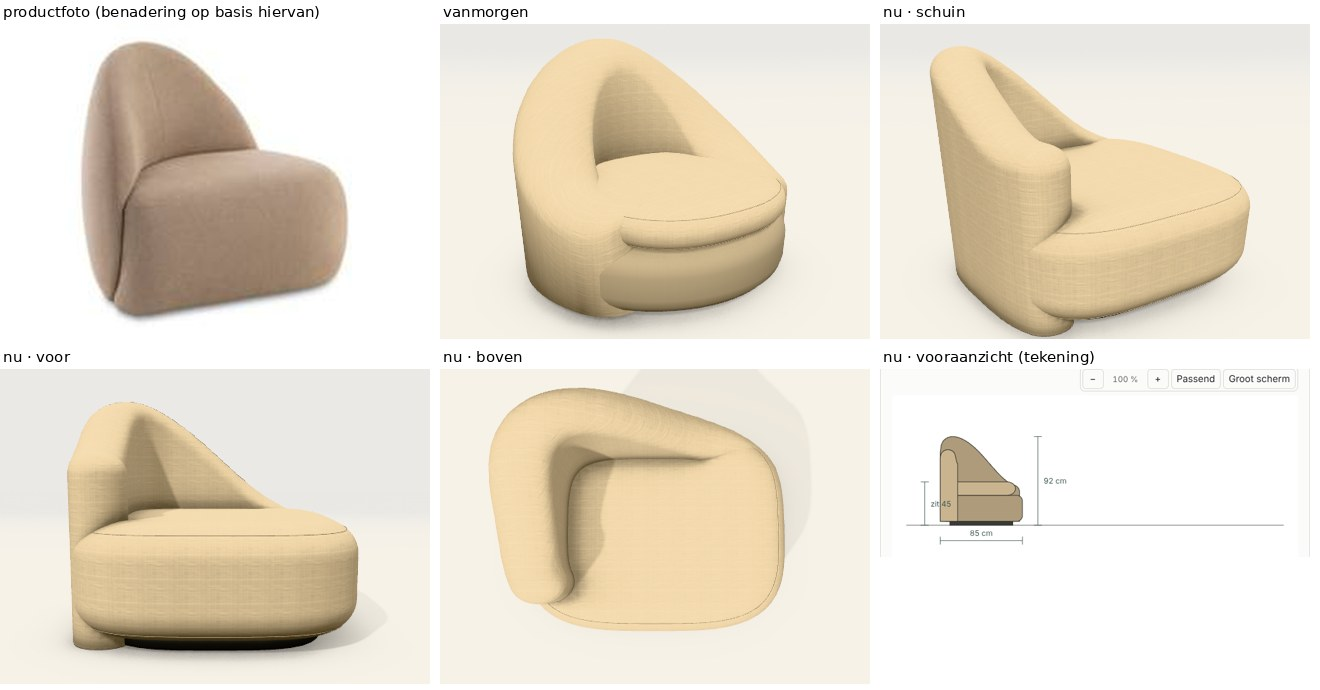
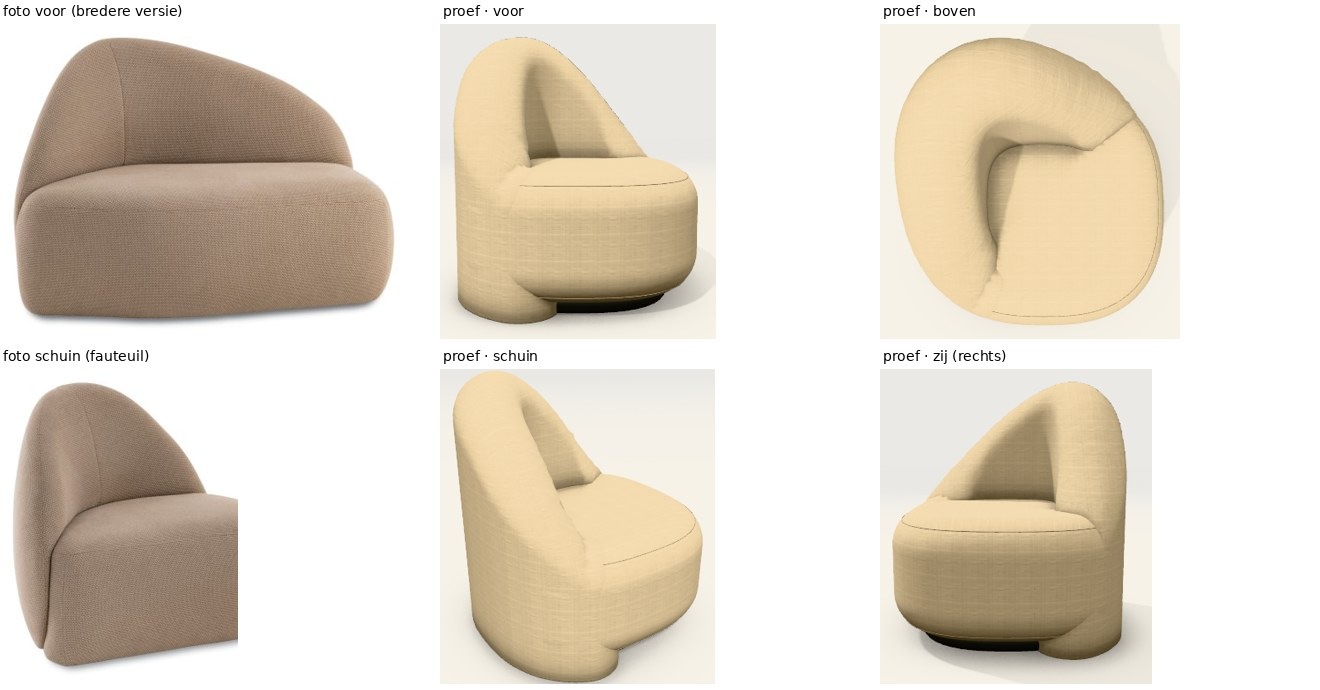
Pebble opnieuw naar de foto's van de productpagina
- Rug: één dikke, bolle schaal (24 cm) achter de zitting die links om de
  zijkant draait; het hoogst op de rug links van het midden, rechts schuin
  in de zitting, links in een boog naar voren tot op zithoogte; bol
  verloop van de bovenrand zoals de rand van een blad.
- Zitting: één zacht blok met grote afrondingen (eigen exponent 2,6 voor
  de kuipvorm Organisch, de andere kuipvormen ongewijzigd).
- Ook boven- en vooraanzicht van Pebble volgen; prijs en offertetekst niet.
- Test, beeldvergelijking (alleen pebble-schuin), uitleg, skill en
  overdracht bijgewerkt. Online demo en doorstuurbestanden wachten op het
  akkoord van Jonas.

Claude-Session: https://claude.ai/code/session_01PczewFp9M8BS44vqTSpk6u

diff --git a/packages/core/src/kuip.ts b/packages/core/src/kuip.ts
@@ -32,6 +32,8 @@ export interface KuipParameters {
    * linkerkant; rechts stopt de wand 50° na het midden achteraan.
    */
   scheef: boolean;
+  /** Eigen exponent van het grondvlak (2 = ellips, hoger = hoekiger); leeg = volgens `plan`. */
+  exponent?: number;
 }
 
 /** Parameters uit de `teken`-velden van de gekozen kuipvorm; null voor de hoekige fauteuil (rechte rug en armen). */
@@ -48,6 +50,7 @@ export function kuipParameters(teken: Record<string, unknown> | undefined): Kuip
     organisch: teken.organisch === true,
     vlak: teken.vlak === true,
     scheef: teken.scheef === true,
+    ...(typeof teken.exponent === 'number' ? { exponent: teken.exponent } : {}),
   };
 }
 
@@ -83,7 +86,7 @@ export interface KuipOpbouw {
  * `kussenDik` = dikte zitkussen (0 = vaste zitting).
  */
 export function kuipOpbouw(B: number, D: number, h: { P: number; zithoogte: number; rugH: number; kussenDik: number }, k: KuipParameters, losseRug: boolean): KuipOpbouw {
-  const n = exponent(k.plan);
+  const n = k.exponent ?? exponent(k.plan);
   const w = Math.min(k.dikte, B / 3, D / 3);
   const cx = B / 2, cy = D / 2;
   const plan = superellips(cx, cy, B / 2, D / 2, n, 0, 360, 72).slice(0, -1);
@@ -95,9 +98,10 @@ export function kuipOpbouw(B: number, D: number, h: { P: number; zithoogte: numb
   const rond1 = (x: number) => Math.round(x * 10) / 10;
   let pad: Punt[], hoogtes: number[];
   if (k.scheef) {
-    // Van rechtsachter (−30°) over het midden achteraan (−90°) naar linksvoor (−90° − boog); het hoogst linksachter (−140°).
-    // Het stijgende stuk rechts is lang genoeg om niet te steil te worden (een te steile bovenkant gaf vlekjes in de 3D).
-    const tRechts = -30, tLinks = -90 - k.boog, tTop = -140;
+    // Volgens de productfoto's (pebble-01-6, -13, -18): van rechtsachter (−38°, de schaal komt daar op de zitting uit,
+    // ±vier vijfde van de breedte) over de rug naar links, het hoogst op de rug links van het midden (−128°, ±een kwart van de breedte), en langs de linkerzijde naar
+    // voren (−90° − boog) waar ze rond tot op de vloer zakt, net achter de voorkant van de zitting.
+    const tRechts = -38, tLinks = -90 - k.boog, tTop = -128;
     // Eerst fijn bemonsterd, dan op gelijke afstanden langs de wand: bij een afgerond grondvlak liggen punten op gelijke
     // hoeken ongelijk verdeeld, en dan golfde de bovenkant (de hoogte volgt de afstand langs de wand, niet de hoek).
     const F = 600, fijn = superellips(cx, cy, B / 2 - w / 2, D / 2 - w / 2, n, tRechts, tLinks, F);
@@ -112,14 +116,15 @@ export function kuipOpbouw(B: number, D: number, h: { P: number; zithoogte: numb
       return [rond1(fijn[j]![0] + f * (fijn[j + 1]![0] - fijn[j]![0])), rond1(fijn[j]![1] + f * (fijn[j + 1]![1] - fijn[j]![1]))] as Punt;
     });
     const uTop = afstand[Math.round(((tRechts - tTop) / (tRechts - tLinks)) * F)]! / totaal;
-    // Links vooraan nog ±half de hoogte boven de zitting (de schaal staat daar tot op de vloer). Rechts verdwijnt de schaal
-    // in de zitting: haar bovenkant eindigt 3 cm onder de zitting, niet erop (twee vlakken op dezelfde hoogte flikkeren).
-    const links = voor + (rug - voor) * 0.5, rechts = zitBoven - 3;
+    // Vooraan links ongeveer op zithoogte (daaronder loopt de ronde kop tot op de vloer). Rechts verdwijnt de schaal in de
+    // zitting: haar bovenkant eindigt 3 cm onder de zitting, niet erop (twee vlakken op dezelfde hoogte flikkeren).
+    const links = zitBoven + 1, rechts = zitBoven - 3;
+    // Bol verloop, zoals de rand van een blad: bij de top vlak, naar de uiteinden toe steeds steiler.
     hoogtes = pad.map((_, i) => {
       const u = i / (pad.length - 1);
       return u <= uTop
-        ? rond1(rechts + (rug - rechts) * (0.5 - 0.5 * Math.cos((Math.PI * u) / uTop)))
-        : rond1(rug - (rug - links) * (0.5 - 0.5 * Math.cos((Math.PI * (u - uTop)) / (1 - uTop))));
+        ? rond1(rechts + (rug - rechts) * Math.sin((Math.PI / 2) * (u / uTop)))
+        : rond1(links + (rug - links) * Math.cos((Math.PI / 2) * ((u - uTop) / (1 - uTop))));
     });
   } else {
     pad = superellips(cx, cy, B / 2 - w / 2, D / 2 - w / 2, n, -90 - k.boog, -90 + k.boog, stappen * 2);

diff --git a/packages/core/test/kuip.test.ts b/packages/core/test/kuip.test.ts
@@ -51,19 +51,26 @@ describe('scheve schaal (kuipvorm organisch, Pebble)', () => {
   const h = { P: 4, zithoogte: 44, rugH: 92, kussenDik: 12 };
   const opb = kuipOpbouw(85, 85, h, kuipParameters(teken('organisch'))!, false);
   const { pad, hoogtes } = opb.wand;
-  it('rechts achteraan begint de schaal onder de zitting, links blijft ze hoog tot vooraan', () => {
+  it("volgens de productfoto's: rechts in de zitting, het hoogst op de rug links van het midden, links in een boog naar voren", () => {
     expect(hoogtes[0]).toBeLessThan(h.zithoogte); // rechts: verdwijnt in de zitting
     expect(pad[0]![0]).toBeGreaterThan(60); // rechts (grote x)
     expect(pad[0]![1]).toBeLessThan(40); // achter het midden
     const laatste = pad[pad.length - 1]!;
-    expect(laatste[0]).toBeLessThan(25); // links
+    expect(laatste[0]).toBeLessThan(26); // links
     expect(laatste[1]).toBeGreaterThan(55); // vooraan
-    expect(hoogtes[hoogtes.length - 1]).toBeGreaterThan(h.zithoogte + 15);
-    // Het hoogst linksachter.
+    // Vooraan links rond zithoogte; de ronde kop loopt daaronder tot op de vloer.
+    expect(hoogtes[hoogtes.length - 1]).toBeGreaterThanOrEqual(h.zithoogte);
+    expect(hoogtes[hoogtes.length - 1]).toBeLessThan(h.zithoogte + 6);
+    // Het hoogst op de rug, links van het midden (±een kwart van de breedte).
     const top = pad[hoogtes.indexOf(Math.max(...hoogtes))]!;
     expect(top[0]).toBeLessThan(42.5);
-    expect(top[1]).toBeLessThan(42.5);
+    expect(top[0]).toBeGreaterThan(10);
+    expect(top[1]).toBeLessThan(20);
     expect(Math.max(...hoogtes)).toBe(92);
+    // Bol verloop: halverwege tussen de top en de uiteinden nog ruim boven het midden van de hoogte.
+    const iTop = hoogtes.indexOf(Math.max(...hoogtes));
+    expect(hoogtes[Math.round(iTop / 2)]!).toBeGreaterThan((92 + h.zithoogte) / 2);
+    expect(hoogtes[Math.round((iTop + hoogtes.length - 1) / 2)]!).toBeGreaterThan((92 + h.zithoogte) / 2);
     for (const [x, y] of [...opb.plan, ...pad]) { expect(x).toBeGreaterThanOrEqual(-0.01); expect(x).toBeLessThanOrEqual(85.01); expect(y).toBeGreaterThanOrEqual(-0.01); expect(y).toBeLessThanOrEqual(85.01); }
   });
   it('de andere kuipvormen blijven symmetrisch', () => {

diff --git a/packages/core/voorbeelden/vrij-ontwerp.ts b/packages/core/voorbeelden/vrij-ontwerp.ts
@@ -208,7 +208,7 @@ export const zetelOpties: OptieGroep[] = [
       { code: 'afgerond', label: 'Afgerond met armen', uitleg: 'Afgeronde rug die naar armhoogte zakt en vlak doorloopt', teken: { vorm: 'afgerond', plan: 'afgerond', dikte: 13, boog: 130, voorBoven: 17, armVanaf: 0.6 } },
       { code: 'omhullend', label: 'Omhullend', uitleg: 'Wand loopt ver rond, armen laag vooraan', teken: { vorm: 'omhullend', plan: 'rond', dikte: 17, boog: 140, voorBoven: 9, armVanaf: 1 } },
       { code: 'trommel', label: 'Trommel', uitleg: 'Ronde trommel, rondom even hoog, met losse rugkussens', teken: { vorm: 'trommel', plan: 'rond', dikte: 14, boog: 138, voorBoven: 22, armVanaf: 1, vlak: true } },
-      { code: 'organisch', label: 'Organisch', uitleg: 'Zachte kiezel als zitting; de schaal is aan één kant hoog en loopt aan de andere kant schuin in de zitting weg', teken: { vorm: 'organisch', plan: 'afgerond', dikte: 16, boog: 118, voorBoven: 1, armVanaf: 1, organisch: true, scheef: true } },
+      { code: 'organisch', label: 'Organisch', uitleg: 'Zachte kiezel als zitting; de schaal is aan één kant hoog en loopt aan de andere kant schuin in de zitting weg', teken: { vorm: 'organisch', plan: 'afgerond', exponent: 2.6, dikte: 24, boog: 150, voorBoven: 1, armVanaf: 1, organisch: true, scheef: true } },
       { code: 'schelp', label: 'Schelp op frame', uitleg: 'Dunne, gebogen rugschaal boven de zitting, op het frame', teken: { vorm: 'schelp', plan: 'afgerond', dikte: 6, boog: 98, voorBoven: 20, armVanaf: 1, zwevend: true } },
       { code: 'hoekig', label: 'Hoekig', uitleg: 'Rechte rug en armen', teken: { vorm: 'hoekig' } },
     ],

diff --git a/docs/overdracht.md b/docs/overdracht.md
@@ -22,7 +22,7 @@
 | **Overstap naar WebGPU (4/11)** | Na de proeven (verslag `docs/proeven/3d-motor-proeven-0411.md`) alles samengevoegd: weefselkaarten, glas met transmission, scherpere omgeving en de lichtsfeer *Fotostudio* (HDRI, CC0), fotomodus op WebGPU met ontruiser. Daarna de hele 3D (zeteldemo en bouwdemo) op `WebGPURenderer`:<br>• WebGPU waar de browser het heeft (de M5 in de toonzaal: Safari 27.2, adapter Apple, shader-f16), anders automatisch WebGL2 met hetzelfde beeld;<br>• schaduw in hoeken (kwaliteit *Mooi*) opnieuw gebouwd met de nabewerking van WebGPU (TSL: GTAO + ontruisen);<br>• fotomodus: WebGPU-path tracer met ontruiser, anders de oude op een tijdelijke WebGL-renderer;<br>• beelden van het canvas via `viewer.beeld()` (offerte); de slagschaduw is zachter dan vroeger (VSM van WebGPU).<br>• **Getest:** alleen de WebGL2-weg (in de cloud is er geen WebGPU): vijf zetels, woning en raam tegenover de vorige versie, *Snel* en *Mooi*, fotomodus en offerte. **WebGPU zelf nog te testen op de M5.** Pagina ±6,4 MB (HDRI 2,2 MB en WebGPU-onderdelen). |
 | **Schaduw volgt de vorm (5/11)** | Melding van Jonas: "De schaduw volgt niet de vorm van het object." Twee oorzaken gevonden (ook al vóór WebGPU):<br>• de contactschaduw onder de zetel was een rechthoek per onderdeel (ronde poef: vierkante schaduw; Doha: rechthoekige vlek voorbij de ronde uiteinden). Nu de echte grondvorm per onderdeel;<br>• de verdekte voet was altijd vierkant en stak onder ronde fauteuils (Pebble) uit: een harde, zwarte plaat. Nu dezelfde vorm als het meubel, 10 cm naar binnen.<br>• Prijs, offerte, boven- en vooraanzicht ongewijzigd. Getest op de WebGL2-weg (Doha, Kotor, Pebble, Stockholm). **Nog na te kijken op de M5:** de zonneschaduw via WebGPU (VSM); ziet die er nog verkeerd uit, dan een schermafbeelding met model en toestel. |
 | **Gratis hulpmiddelen en beeldvergelijking (5/11)** | Advies over gratis hulpmiddelen in `docs/3d-technieken.md` (Material Maker, DeepBump, Real-ESRGAN, HDRI's; in three.js: SSS, TRAA, SSGI, SSR, Inspector).<br>• **Getest, niet opgenomen:** fijne contactschaduw (SSS) en TRAA bij *Mooi*: geen zichtbare winst, wel extra rekenwerk (beeld `docs/afbeeldingen/proef-sss-traa.jpg`, verslag in `docs/proeven/3d-motor-proeven-0411.md`).<br>• **Nieuw:** `npm run beelden`: vaste reeks van 10 beelden (zetels, poef, woning, raam) tegenover de referentie in `beeldtest/referentie/`, verschil in het rood (`beeldtest/LEESMIJ.md`). Proef: de fout van vandaag (vierkante voet) tijdelijk teruggezet en gemeld.<br>• Texturen van vloer, wand en hout met een vaste toevalsreeks: hetzelfde parket bij elke keer laden.<br>• Volgende stap volgens het advies: stoffen maken met Material Maker en DeepBump; SSGI als proef op de M5. |
-| **Pebble afgewerkt (5/11)** | Melding: "de vormen lopen door elkaar", met de productfoto. De zitting is nu één zachte kiezel in de stof (geen donkere onderbouw met los kussen); de schaal staat scheef zoals op de foto (links hoog en tot vooraan op de vloer, rechts schuin in de zitting), met ronde uiteinden en een zachte vouw tegen de zitting; de zitting is een afgeronde rechthoek, niet rond. Lichte vlekjes op de oplopende schaal opgelost in de motor voor zachte vormen. Verandert: 3D en boven- en vooraanzicht van Pebble (ook de tekening in de offerte); prijs en offertetekst niet; andere kuipfauteuils niet. Beeldvergelijking: alleen `pebble-schuin` veranderde, de 9 andere bleven 0,00 %. Benadering uit één foto: na te kijken met een tweede foto of bij de klant. Uitleg en beeld in `docs/zachte-vormen.md`. 249 tests. |
+| **Pebble opnieuw naar de productfoto's (5/11)** | Meldingen: "de vormen lopen door elkaar", later "totaal onherkenbaar". Eerst op één kleine foto gebouwd (te veel gegist), daarna op de zes foto's van de productpagina: de zitting is één zacht blok met grote afrondingen; de rug een dikke, bolle schaal (24 cm) achter de zitting die links om de zijkant draait, het hoogst op de rug links van het midden, rechts schuin in de zitting, links in een boog naar voren tot op zithoogte. Verandert: 3D en boven- en vooraanzicht van Pebble (ook de tekening in de offerte); prijs en offertetekst niet; andere kuipfauteuils niet. **Wacht op het akkoord van Jonas** voor de online demo en de doorstuurbestanden. Na te vragen bij de klant: maten van de fauteuil, linkse/rechtse versie. Uitleg en beeld in `docs/zachte-vormen.md`. 249 tests. |
 | **3D-kennisbank en advies ramen en deuren (4/11)** | `docs/3d-technieken.md` (in Obsidian: *3D-technieken - kennisbank*):<br>• alle 3D-technieken op een rij (blokken, eigen doorsnede, zachte vormen, doorlopende opbouw, boog, echt 3D-bestand, weergave, snelheid): wat ze doen, waarvoor wel en niet, rekentijd, waar in de code;<br>• de lessen (eigen vorm per type, eerst de opbouw, grote foto's van de productpagina, vergelijkingsbeeld, benaderingen markeren, 3D-keuze kan de prijs raken);<br>• een werkwijze voor een nieuw model of product;<br>• **advies ramen en deuren** (vraag: "is deze techniek voor 3D bruikbaar voor ramen en deuren?", nog niet gebouwd): de zachte vormen niet; wel een eigen doorsnede per profielsysteem (verstek, doorsnedetekening, rondboog; DXF van de leverancier), echte 3D-bestanden voor krukken en trekbeugels; de weergave is al gedeeld. |
 | **Doorlopende zetel: Doha en Montego (4/11)** | Melding: "Montego en Doha zien er in de 3D identiek uit" en "groot verschil qua opbouw" met de foto; daarna "we maken progressie maar is nog niet af". Oorzaak: beide waren losse elementen naast elkaar; op de foto's (de grote van de productpagina's) is elk één doorlopende zetel.<br>• **Nieuw in de vormgeving van de zetel:** *Opbouw in 3D* (*Per element* of *Doorlopend (één zetel)*) en *Boog bij doorlopend* (0–60 cm, de uiteinden naar voren). Motor: `core/src/doorlopend.ts`.<br>• **Doorlopend:** met losse zitkussens twee ronde banden (zitting rondom, onderbouw 3 cm terug, diepe naad), met een vaste zitting één ronde vorm; één rug langs de achterkant. Bij een afgerond uiteinde volgt de rug *Rug bij de ronde kant*: *rond* = korte omloop als armleuning op volle hoogte (tot ±32 % van de diepte), *recht* = de rug stopt met een ronde kop ±40 % van het eindelement ver en de zitting loopt verder. Een dieper element loopt vloeiend over in de rest (1,6 × het diepteverschil aan elke kant, 25–70 cm). Onderbouw en rug zijn één zachte vorm, ook bij *Blokken*.<br>• **Doha:** loungedeel links 145 cm diep, zitting 22 cm, armleuningen aan beide kanten, oranje en lichtgrijs sierkussen. **Montego:** vaste zitting, rug aan beide kanten alleen op het rechte deel, boog van 30 cm. Allemaal benaderingen uit de foto's.<br>• **Schaduw:** buren met een vrije omtrek (zitkussen) of gebogen wand tellen nu met hun echte vorm (vroeger als doos rond hun kader: grijze vlekken waar niets staat); het zitkussen krijgt schaduw van de rug.<br>• **Rekenen:** in de achtergrond (eerst de gewone vorm), ±0,3–0,7 s; tabellen in het grondvlak voor lange omtrekken en wanden (2 à 3 × sneller).<br>• **Blijft per element:** prijs, offerte, boven- en vooraanzicht (de boog alleen in 3D). Let op: de offerte toont dus in 3D één zetel en in de tekeningen de losse elementen. Alleen een rechte rij: bij een hoeksofa doet alleen de langste rechte rij mee (niet getest).<br>• Beeld: `docs/afbeeldingen/doorlopende-zetel.jpg`; uitleg in `docs/zachte-vormen.md`. |
 | **Strakke arm met eigen vorm (4/11)** | Na de zachte vormen: de strakke arm (16 van de 21 modellen met armen) is een eigen doorsnede (`strakProfiel` in `ruimtelijk.ts`), in alle weergaven en in het vooraanzicht.<br>• **Vorm:** zacht afgeronde, licht bolle bovenkant, licht bolle zijkanten, een voorpaneel met afgeronde rand dat in het midden bol staat; hoe zacht volgt de zachtheid van het model. Met een hoes loopt de arm tot op de vloer (Husk).<br>• **Naad of bies rond het voorpaneel** van elke arm met een eigen vorm (ook Wallace), volgens *Naden*.<br>• **Sneller:** grote zetels (meer dan 3 m³) met een raster van 2,5 cm bij *Zacht*; ±0,2–0,7 s per sofa.<br>• **Nog als balk:** rolarm, Engels, schuin, met houten blad, en de rug en onderbouw.<br>• Beeld: `docs/afbeeldingen/strakke-arm.jpg`; uitleg in `docs/zachte-vormen.md`. |

diff --git a/docs/zachte-vormen.md b/docs/zachte-vormen.md
@@ -172,29 +172,29 @@ De motor gebruikt dezelfde werkwijze als 3D-programma's (*afstandsvelden* en *su
 
 ## Pebble: zachte kiezel met een scheve schaal (5/11)
 
-Melding van Jonas: "de vormen lopen door elkaar", met de productfoto. Pebble (kuipvorm *Organisch*) bestond uit drie
-losse delen: een donkere onderbouw, een lichter zitkussen met een uitstekende rand, en een symmetrische schaal die
-vooraan recht afgesneden in de onderbouw stak. Op de foto is de zitting één zachte kiezel in één kleur, en de schaal
-staat scheef: links hoog en tot vooraan op de vloer, rechts zakt ze schuin weg in de zitting.
+Melding van Jonas: "de vormen lopen door elkaar" en later "totaal onherkenbaar". Eerst gebouwd op één kleine foto,
+wat te veel gissen was (onder meer een vierkante zitting met een dunne wand eromheen). Daarna opnieuw op de zes foto's
+van de productpagina (corneille-silence.be/pebble.html; de site geeft geen maten voor de fauteuil, alleen voor de poef:
+82 × 42 × 61 cm).
 
-Nu:
+Wat de foto's tonen en hoe het nu gebouwd is (alleen kuipvorm *Organisch*):
 - **Zitting:** één zacht blok in de stof, van de voet tot op zithoogte (kussen, `glad`), zonder los zitkussen
-  (`ruimtelijk.ts`).
-- **Schaal:** een eigen zachte vorm (`glad`) met ronde uiteinden. Ze loopt van rechtsachter (3 cm onder de zitting, dus
-  in de zitting) over de rug, het hoogst linksachter, tot linksvoor op ±half de hoogte boven de zitting (`kuip.ts`,
-  `scheef`). 16 cm dik. Plattegrond (zitting en schaal): een afgeronde rechthoek zoals op de foto, niet rond. De punten
-  van de schaal liggen op gelijke afstanden (anders golfde de bovenkant bij een afgeronde rechthoek). Zitting en schaal smelten bewust **niet** samen: dan werd het één klomp. Apart
-  blijft er een zachte vouw waar de schaal tegen de zitting drukt.
-- **Op de vloer:** de schaal begint 3 cm onder de vloer, zodat haar platte onderkant (die rafels gaf) niet te zien is.
-- **Lichte vlekjes** op een oplopende, gebogen wand: op de knikpunten van het pad rekende de motor de helling als nul.
-  Nu het gemiddelde van de stukken ernaast (`zachtevorm.ts`, `wand`).
+  (`ruimtelijk.ts`). Grondvlak met eigen exponent 2,6 (`teken.exponent`): grote, zachte afrondingen.
+- **Rug:** één dikke, bolle schaal (24 cm, `glad`, eigen zachte vorm) achter de zitting die aan de linkerkant om de
+  zijkant draait (`kuip.ts`, `scheef`). Ze begint rechtsachter in de zitting (−38°, ±vier vijfde van de breedte), is het
+  hoogst op de rug links van het midden (−128°, ±een kwart van de breedte) en zakt langs de linkerzijde naar voren tot
+  op zithoogte (−240°); de ronde kop loopt daaronder tot op de vloer, net achter de voorkant van de zitting.
+- **Bol verloop** van de bovenrand, zoals de rand van een blad: vlak bij de top, steiler naar de uiteinden (sinus en
+  cosinus over een kwart periode). De punten liggen op gelijke afstanden langs de schaal.
+- **Op de vloer:** de schaal begint 3 cm onder de vloer (geen rafels aan de platte onderkant).
+- **Lichte vlekjes** op een oplopende, gebogen wand: op de knikpunten telt de gemiddelde helling mee (`zachtevorm.ts`).
 
-Wat verandert: de 3D, en het boven- en vooraanzicht van Pebble (die lezen dezelfde schaal uit `kuipOpbouw`, dus ook de
-tekening in de offerte). Het vooraanzicht toont de zitting nog als kussen op een onderbouw. Prijs en offertetekst
-veranderen niet; de andere kuipfauteuils (Tumble, Manon, Satie …) blijven zoals ze waren (tests). Kussendikte en
-comfort zie je bij Pebble niet meer in 3D (één blok).
+Wat verandert: de 3D en het boven- en vooraanzicht van Pebble (die lezen dezelfde schaal, dus ook de tekening in de
+offerte). Prijs en offertetekst niet; de andere kuipfauteuils niet (tests).
 
-Benadering uit één kleine foto (400 px, één standpunt): hoe ver de schaal links naar voren loopt, de dikte van de schaal
-en hoe hoekig de zitting is, moeten op een tweede foto of bij de klant nagekeken worden.
+Nog af te stemmen met de klant: de maten van de fauteuil, het kleine "voetje" linksonder (de kop van de schaal naast
+de afgeronde zitting), en of Pebble een linkse en een rechtse versie heeft (de groepsfoto toont gespiegelde
+exemplaren; hier de versie van de vooraanzichtfoto: hoog links).
 
-![Pebble: de productfoto, vanmorgen, nu schuin, van voren, van boven en het vooraanzicht](afbeeldingen/pebble-kiezel.jpg)
+![Pebble: foto's van de productpagina naast de 3D in dezelfde standpunten](afbeeldingen/pebble-kiezel.jpg)
+

diff --git a/.claude/skills/zetel-3d/SKILL.md b/.claude/skills/zetel-3d/SKILL.md
@@ -180,7 +180,7 @@ Lees opties via `gekozenOpties(ontwerp, catalogus, e)` en `te(groep, veld, stand
 ## Valkuilen
 - Vergeet de rotatie niet: test elke nieuwe vorm bij 0, 90, 180 en 270.
 - Vooraanzicht: achterste elementen eerst tekenen (sortering op voorrand), anders bedekken ze de voorste.
-- Kuipvorm *Organisch* (Pebble, 5/11): `kiezel` in `ruimtelijk.ts`: `e1.basis` = één zacht blok (soort `kussen`, `glad`, stofkleur) van P tot zithoogte, geen `zitkussen`; `e1.rug` = kuipwand `glad` (eigen zachte vorm, ronde uiteinden uit de capsule) die bij P ≤ 8 op y = −3 begint (platte onderkant onder de vloer, anders rafels). Zitting en schaal bewust in aparte groepen (kussen vs stof): samen gaf één klomp zonder vouw. De schaal is scheef (`KuipParameters.scheef`, in `kuipOpbouw`, dus ook boven- en vooraanzicht): van −30° (rechtsachter, top 3 cm onder de zitting) over −140° (hoogst) naar −90° − boog (linksvoor, ±half boven de zitting); teken `plan: 'afgerond', dikte: 16, boog: 118`. Het pad wordt fijn bemonsterd en op gelijke afstanden herverdeeld; de hoogte volgt de afstand langs de wand (op gelijke hoeken golfde de bovenkant bij een afgerond grondvlak). Een te steile stijging gaf vlekjes; twee vlakken op zithoogte flikkerden.
+- Kuipvorm *Organisch* (Pebble, 5/11): `kiezel` in `ruimtelijk.ts`: `e1.basis` = één zacht blok (soort `kussen`, `glad`, stofkleur) van P tot zithoogte, geen `zitkussen`; `e1.rug` = kuipwand `glad` (eigen zachte vorm, ronde uiteinden uit de capsule) die bij P ≤ 8 op y = −3 begint (platte onderkant onder de vloer, anders rafels). Zitting en schaal bewust in aparte groepen (kussen vs stof): samen gaf één klomp zonder vouw. De schaal is scheef (`KuipParameters.scheef`, in `kuipOpbouw`, dus ook boven- en vooraanzicht), naar de zes foto's van de productpagina: van −38° (rechtsachter, top 3 cm onder de zitting) over −128° (hoogst, op de rug links van het midden) naar −90° − boog (linksvoor, op zithoogte); bol verloop (sinus/cosinus over een kwart periode); teken `plan: 'afgerond', exponent: 2.6, dikte: 24, boog: 150`. Het pad wordt fijn bemonsterd en op gelijke afstanden herverdeeld. Eerst bouwen op álle foto's van de productpagina en vergelijken vanuit hetzelfde standpunt als de foto: één kleine foto gaf vandaag zes verkeerde versies.
 - `zachtevorm.ts` `wand`: op een hoekpunt van het pad (t geklemd, niet aan een uiteinde) de gemiddelde helling van de twee stukken ernaast in de normaal, niet nul (vlekjes om de 2 cm op een oplopende, gebogen wand).
 - Ronde elementen: poten en verdekte voet naar binnen zetten, anders steken ze buiten de ronding uit. Sinds 5/11 krijgt de verdekte voet onder een staande cilinder (ronde poef) of een blok met `omtrek` (kuipfauteuil) dezelfde vorm, 10 cm naar binnen (`ruimtelijk.ts`, na de opbouw van het element; niet bij `rond`, dat heeft `verdekt-rond`). Het vooraanzicht blijft een rechthoek.
 - Contactschaduw (`zetContactschaduw` → `tekenGrondvorm` in `drie-d.ts`): per blok onder 25 cm de echte grondvorm op een canvas (omtrek, ellips voor staande cilinder/kegel, `roundRect` met afronding, `draai` rond het midden, kuipwand als dikke lijn langs `pad`, profiel als strook over het onderste deel van de doorsnede), vervaagd via `shadowBlur` met de vorm 2000 px links buiten beeld. Nooit terug naar het kader per blok.
